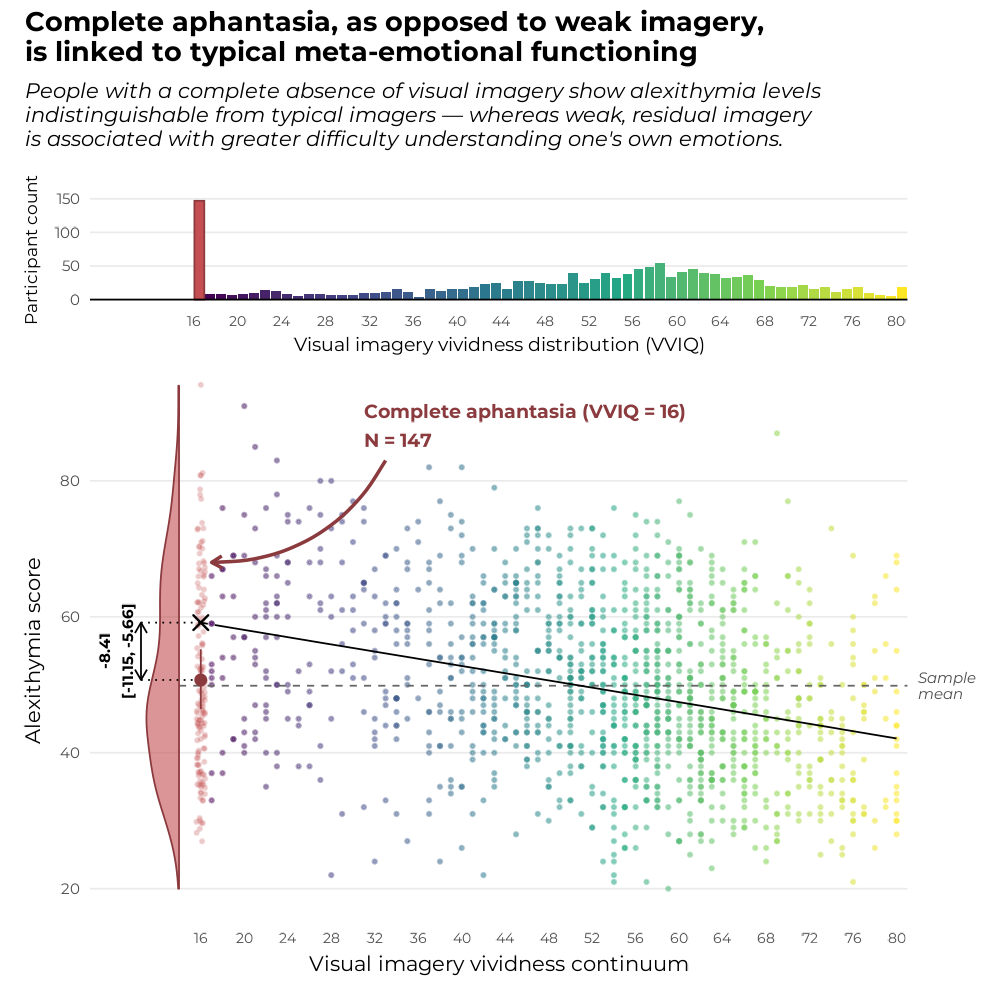
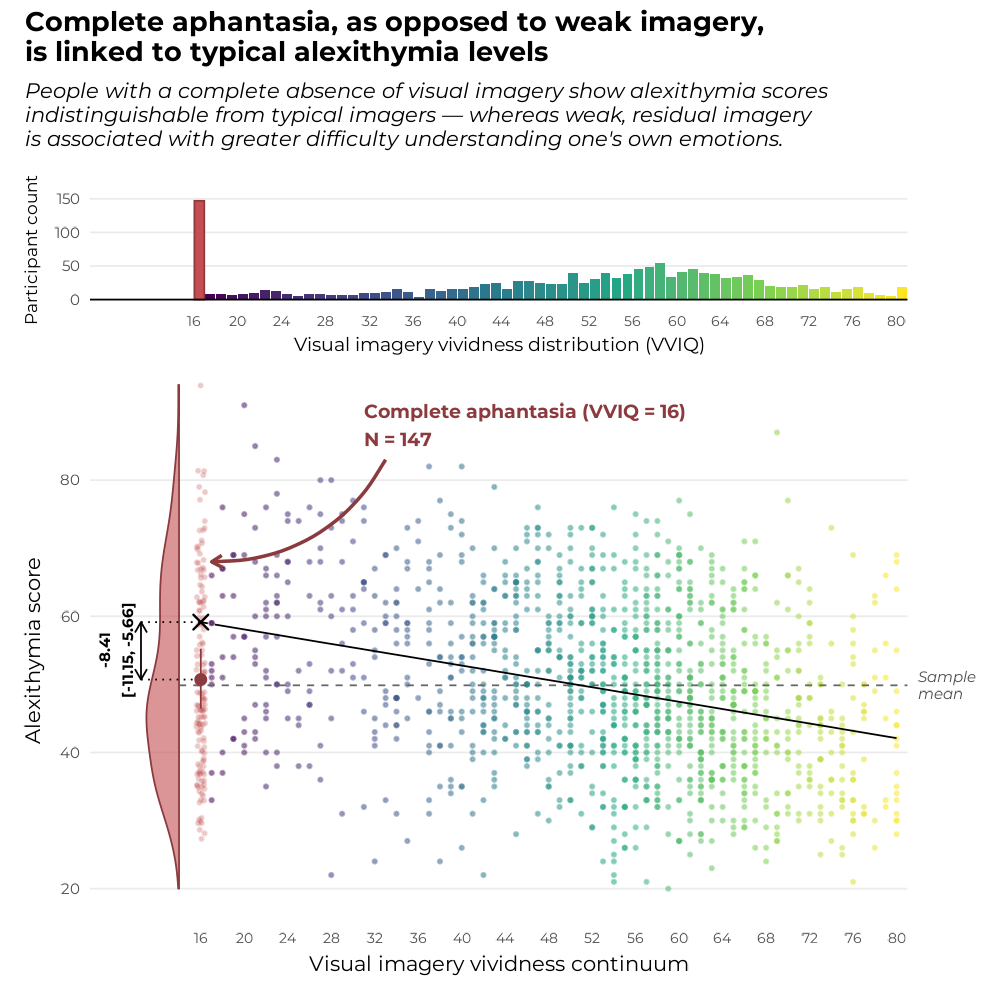
Revised title and adjustments

diff --git a/README.md b/README.md
@@ -11,11 +11,12 @@
 <a href="https://doi.org/10.31234/osf.io/es425_v1" target="_blank"><img alt="DOI badge" src="https://img.shields.io/badge/Preprint-white?style=flat&logo=osf&logoColor=337AB7&logoSize=auto"/></a>
 <!-- badges: end -->
 
-aphantasiaEmotions is a data analysis project wrapped in an R package
-for reproducibility[^1]. It contains the code and data to reproduce the
-analyses presented in the article “*Complete Aphantasics Are No More
-Alexithymic Than Anyone Else: A Discontinuity Where Visual Imagery Is
-Entirely Absent*”. You can read the preprint
+aphantasiaEmotions is a data analysis project and an *Extended Online
+Report* (see below) wrapped in an R package for reproducibility[^1]. It
+contains the code and data to reproduce the analyses presented in the
+article “*The Linear Relationship Between Visual Imagery and Alexithymia
+Breaks When Imagery Is Absent: Complete Aphantasics Are No More
+Alexithymic Than Typical Imagers* ”. You can read the preprint
 <a href="https://doi.org/10.31234/osf.io/es425_v1" target="_blank">here</a>.
 This repository is archived with a permanent DOI on the Open Science
 Framework <a href="https://osf.io/b837s/" target="_blank">here</a>.
@@ -35,14 +36,14 @@ Ale & Burns (2024), Monzel et al. (2024) and Kvamme et al. (2026). The
 package comes with a set of functions for manipulating the data and
 reliably reproducing the analyses presented in the article.
 
-Beyond the article itself, this project’s full analysis is documented as
-an **Extended Online Report (EOR)**: a structure of interlinked,
-executable pages that go well beyond what a traditional paper’s Methods
-and Results sections can show — the reasoning behind each modelling
-choice, the exploratory work that didn’t make it into the manuscript for
-space, and the historical process that produced the finding in the first
-place. Where the article is a summary, the EOR is the full account. It
-is organised as follows:
+Beyond the article itself, this project’s full history and analyses are
+documented as an **Extended Online Report (EOR)**: a structure of
+interlinked, executable pages that go well beyond what a traditional
+paper’s Methods and Results sections can show — the reasoning behind
+each modelling choice, the exploratory work that didn’t make it into the
+manuscript for space, and the historical process that produced the
+finding in the first place. Where the article is a summary, the EOR is
+the full account. It is organised as follows:
 
 - [**How this study found its
   shape**](https://m-delem.github.io/aphantasiaEmotions/articles/how-this-study-found-its-shape.html)
@@ -103,7 +104,7 @@ or data in your research, please cite the OSF project with the
 following:
 
 > Delem, M. (2026). “Supplementary materials for ‘Complete Aphantasics
-> Are No More Alexithymic Than Anyone Else’.”
+> Are No More Alexithymic Than Typical Imagers’.”
 > <https://doi.org/10.17605/OSF.IO/B837S>.
 
 ## References
